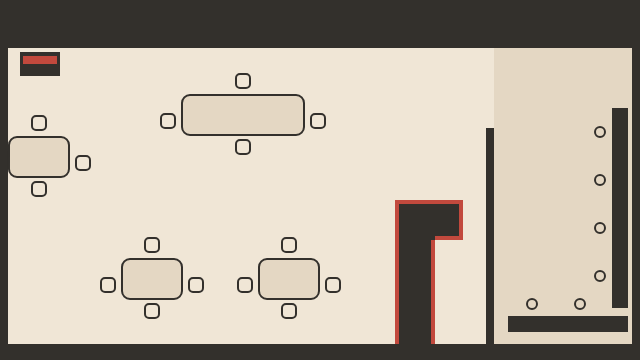
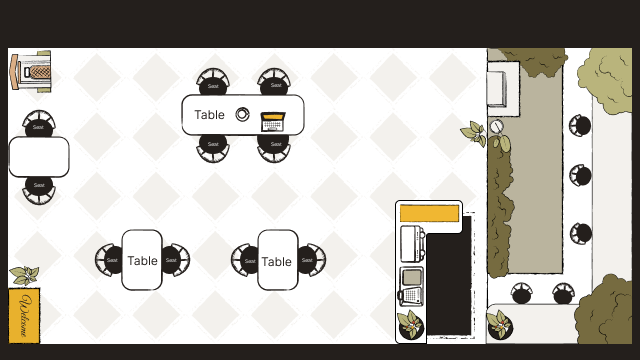
Put Soha's room in the game, and make every table a two or a four
The art arrived on main as eighteen PNGs at the repository root. They are drawn
objects — a floor, two table sizes, a seat, a bar stool, a coffee bar, a
jukebox, bushes, plants, a welcome mat, a cup, a laptop — plus an assembled
reference of the whole room.

That reference is 624 x 296, which is exactly the café's interior: inside the
48px back wall, the 8px sides and the 16px bottom, the floor is 624 x 296 to the
pixel. It drops in at (8, 48) with no scaling and no stretching, so what is on
screen now is the drawing at 1:1. The walls around it are filled in the same
#241F1C the line work uses.

Tables are now twos and fours and nothing else. The old rule put a seat on every
side with clear floor, which gave threes and put chairs where none were drawn.
Size decides instead: a table long enough to fit two down one side seats four,
the rest seat two, and seats only go on the long sides the way people actually
sit at a table. If one long side is against a wall the whole party moves to the
other, so the count never degrades to one or three.

That reverses a decision CONTEXT records, and the reason it can be reversed is
the art. "Seats on every open side" existed because generated furniture gave no
clue where you could sit. Drawn chairs say it plainly, so the rule that fixed a
missing cue is no longer paying for itself.

The collision was then matched to the drawing rather than guessed. Template
matching against the reference found the two lower tables are drawn portrait,
[…]

diff --git a/public/cafe/tools/import-map.html b/public/cafe/tools/import-map.html
@@ -37,7 +37,8 @@
 <h1>Layout importer</h1>
 <p class="sub">
   Drop a 640 × 360 PNG drawn in the key colours (see <code>LAYOUT.md</code>) and it becomes
-  <code>room.json</code>. You draw objects only — seats go on every side with clear floor,
+  <code>room.json</code>. You draw objects only — tables seat two or four along their
+  long sides depending on length,
   and zones are grown around them, so anywhere you can walk to, you can sit.
 </p>
 
@@ -82,6 +83,8 @@ const SEAT_OUT = 14;      // seat distance from a table edge
 const SEAT_NORTH = 12;    // a seat above a table sits slightly closer
 const STOOL_OUT = 12;     // stool distance from the bar rail
 const STOOL_SPACING = 48;
+// A table this long down its long side seats four; anything shorter seats two.
+const FOUR_SEATER_MIN = 96;
 const STOOL_END_CLEAR = 24;
 const ZONE_PAD = 24;      // table zone grows this much every side
 const STRIP = 40;         // counter and jukebox standing strip
@@ -227,14 +230,44 @@ function sideIsOpen(rect, side, depth = CLEAR_DEPTH) {
   return openness(rect, side, depth) >= OPEN_RATIO;
 }
 
+// A table is a two-seater or a four-seater, never a three. Its size decides
+// which: anything long enough to fit two people down one side is a four, the
+// rest are twos.
+//
+// Seats only ever go on the two LONG sides, the way people actually sit at a
+// rectangular table — nobody perches on the end of a bench. If one long side is
+// against a wall the whole party moves to the other one, so the count stays 2
+// or 4 rather than degrading to 1 or 3.
 function tableSeats(rect) {
-  const cx = Math.round(rect.x + rect.w / 2);
-  const cy = Math.round(rect.y + rect.h / 2);
+  const horizontal = rect.w >= rect.h;
+  const long = horizontal ? rect.w : rect.h;
+  const capacity = long >= FOUR_SEATER_MIN ? 4 : 2;
+
+  const sides = horizontal ? ['north', 'south'] : ['west', 'east'];
+  const open = sides.filter((side) => sideIsOpen(rect, side));
+  // Both long sides blocked: try the ends before giving up entirely.
+  const use = open.length ? open : sides.filter((side) => openness(rect, side) > 0);
+  if (!use.length) return [];
+
+  const perSide = Math.round(capacity / use.length);
+
+  // Evenly spaced along the side: one seat sits at the middle, two sit a
+  // quarter in from each end.
+  const along = (i, n) => {
+    const start = horizontal ? rect.x : rect.y;
+    return Math.round(start + (long * (i + 0.5)) / n);
+  };
+
   const seats = [];
-  if (sideIsOpen(rect, 'south')) seats.push({ x: cx, y: rect.y + rect.h + SEAT_OUT });
-  if (sideIsOpen(rect, 'north')) seats.push({ x: cx, y: rect.y - SEAT_NORTH });
-  if (sideIsOpen(rect, 'west'))  seats.push({ x: rect.x - SEAT_OUT, y: cy + 8 });
-  if (sideIsOpen(rect, 'east'))  seats.push({ x: rect.x + rect.w + SEAT_OUT, y: cy + 8 });
+  for (const side of use) {
+    for (let i = 0; i < perSide; i++) {
+      const at = along(i, perSide);
+      if (side === 'north') seats.push({ x: at, y: rect.y - SEAT_NORTH });
+      if (side === 'south') seats.push({ x: at, y: rect.y + rect.h + SEAT_OUT });
+      if (side === 'west')  seats.push({ x: rect.x - SEAT_OUT, y: at + 8 });
+      if (side === 'east')  seats.push({ x: rect.x + rect.w + SEAT_OUT, y: at + 8 });
+    }
+  }
   return seats;
 }
 
